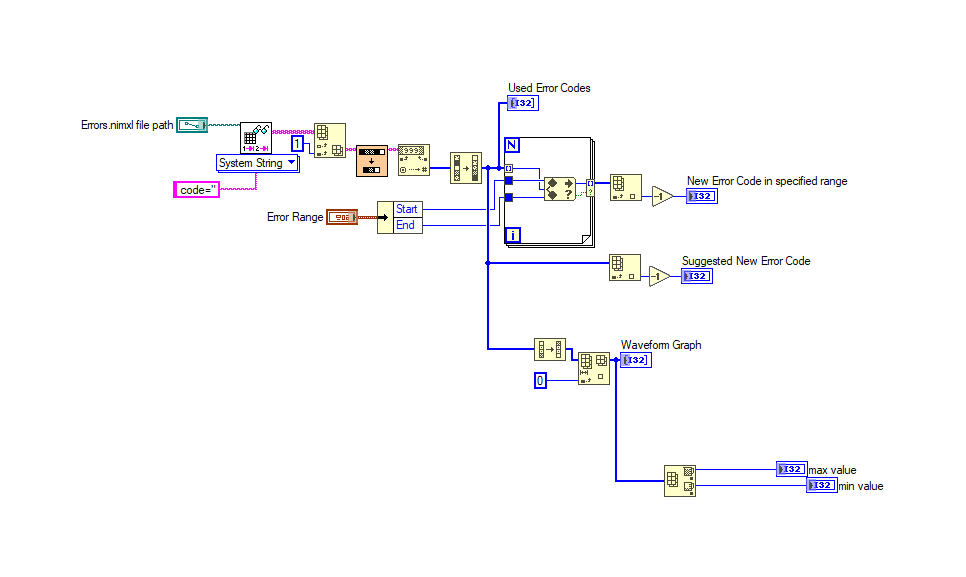
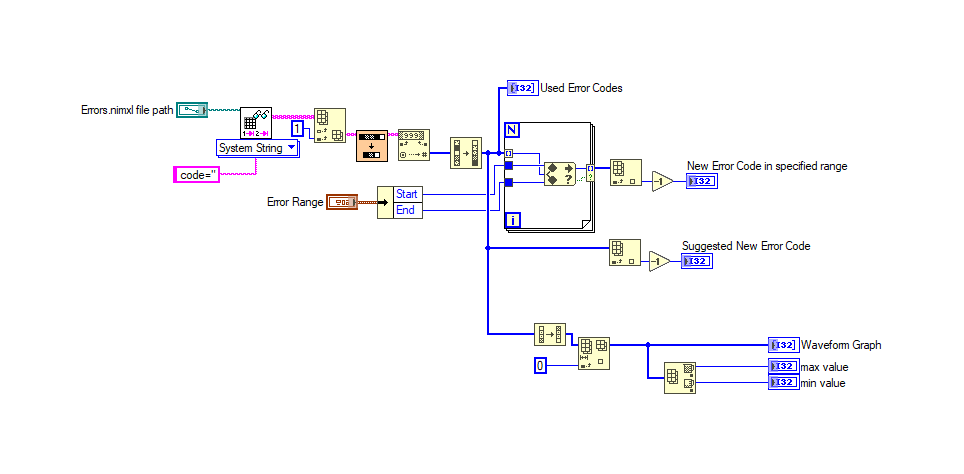
Publish to GitHub Pages

Changed region(s): [[0.0622, 0.1772, 0.9336, 0.8861], [0.4979, 0.1477, 0.6535, 0.2068]]

diff --git a/vidiff/xml_operations-Generate_Error_Code-Generate_Error_Code.vi/index.html b/vidiff/xml_operations-Generate_Error_Code-Generate_Error_Code.vi/index.html
@@ -4,7 +4,7 @@
 <body>
 <div class="report">
 <h1 class="report-title">LabVIEW VI Comparison Report</h1>
-<p class="generation-time">8/20/2026 6:11:04 AM</p>
+<p class="generation-time">8/20/2026 6:48:06 AM</p>
 <div class="compared-VIs">
 <details><summary class="difference-heading"><div class="dropdown-left">First VI: C:\workspace-base\xml operations\Generate Error Code\Generate Error Code.vi</div><div class="dropdown-right">Second VI: C:\workspace\xml operations\Generate Error Code\Generate Error Code.vi</div></summary>
 <table class="difference"><tr class="compared-vi-image-captions"><td class="compared-vi-image-caption">Front Panel Overview</td></tr>
@@ -34,13 +34,13 @@
 <summary class="difference-cosmetic-heading">1. Block Diagram objects</summary>
 <table class="difference"><tr class="compared-vi-image-captions"><td class="compared-vi-image-caption">C:\workspace-base\xml operations\Generate Error Code\Generate Error Code.vi</td><td class="difference-divider"></td><td class="compared-vi-image-caption">C:\workspace\xml operations\Generate Error Code\Generate Error Code.vi</td></tr><tr class="compared-images"><td class="diff-image">
 
-<img class="difference-image" src="index_files/0_0_1445_1445_1.png" alt="index_files/0_0_1445_1445_1.png">
+<img class="difference-image" src="index_files/0_0_1525_1525_1.png" alt="index_files/0_0_1525_1525_1.png">
 </td><td class="difference-divider"></td><td class="diff-image">
 
-<img class="difference-image" src="index_files/0_0_1445_1445_2.png" alt="index_files/0_0_1445_1445_2.png">
+<img class="difference-image" src="index_files/0_0_1525_1525_2.png" alt="index_files/0_0_1525_1525_2.png">
 </td></tr></table>
 <ol class="detailed-description-list" type="A">
-<li class="diff-detail-cosmetic">Name Label  - moved : changed from "<tt>(821,545)</tt>" to "<tt>(853,560)</tt>"</li>
+<li class="diff-detail-cosmetic">Sort 1D Array  - moved : changed from "<tt>(764,617)</tt>" to "<tt>(756,617)</tt>"</li>
 </ol>
 </details>
 <details class="cosmetic" closed>
@@ -48,59 +48,41 @@
 <summary class="difference-cosmetic-heading">2. Block Diagram objects</summary>
 <table class="difference"><tr class="compared-vi-image-captions"><td class="compared-vi-image-caption">C:\workspace-base\xml operations\Generate Error Code\Generate Error Code.vi</td><td class="difference-divider"></td><td class="compared-vi-image-caption">C:\workspace\xml operations\Generate Error Code\Generate Error Code.vi</td></tr><tr class="compared-images"><td class="diff-image">
 
-<img class="difference-image" src="index_files/1_0_411_411_1.png" alt="index_files/1_0_411_411_1.png">
+<img class="difference-image" src="index_files/1_0_374_374_1.png" alt="index_files/1_0_374_374_1.png">
 </td><td class="difference-divider"></td><td class="diff-image">
 
-<img class="difference-image" src="index_files/1_0_411_411_2.png" alt="index_files/1_0_411_411_2.png">
+<img class="difference-image" src="index_files/1_0_374_374_2.png" alt="index_files/1_0_374_374_2.png">
 </td></tr></table>
 <ol class="detailed-description-list" type="A">
-<li class="diff-detail-cosmetic">Array Max & Min  - moved : changed from "<tt>(978,930)</tt>" to "<tt>(978,842)</tt>"</li>
-<li class="diff-detail-cosmetic">Front Panel Terminal "Waveform Graph" - moved : changed from "<tt>(934,817)</tt>" to "<tt>(1082,817)</tt>"</li>
-<li class="diff-detail-cosmetic">Front Panel Terminal "max value" - moved : changed from "<tt>(1090,926)</tt>" to "<tt>(1082,838)</tt>"</li>
-<li class="diff-detail-cosmetic">Front Panel Terminal "min value" - moved : changed from "<tt>(1120,942)</tt>" to "<tt>(1082,854)</tt>"</li>
-<li class="diff-detail-cosmetic">Name Label  - moved : changed from "<tt>(934,802)</tt>" to "<tt>(1114,817)</tt>"</li>
+<li class="diff-detail-cosmetic">Name Label  - moved : changed from "<tt>(995,718)</tt>" to "<tt>(1027,734)</tt>"</li>
 </ol>
 </details>
 <details class="cosmetic" closed>
 
-<summary class="difference-cosmetic-heading">3. Front Panel - Panel</summary>
+<summary class="difference-cosmetic-heading">3. Block Diagram objects</summary>
 <table class="difference"><tr class="compared-vi-image-captions"><td class="compared-vi-image-caption">C:\workspace-base\xml operations\Generate Error Code\Generate Error Code.vi</td><td class="difference-divider"></td><td class="compared-vi-image-caption">C:\workspace\xml operations\Generate Error Code\Generate Error Code.vi</td></tr><tr class="compared-images"><td class="diff-image">
 
-<img class="difference-image" src="index_files/2_0_1.png" alt="index_files/2_0_1.png">
+<img class="difference-image" src="index_files/2_0_2152_2152_1.png" alt="index_files/2_0_2152_2152_1.png">
 </td><td class="difference-divider"></td><td class="diff-image">
 
-<img class="difference-image" src="index_files/2_0_2.png" alt="index_files/2_0_2.png">
+<img class="difference-image" src="index_files/2_0_2152_2152_2.png" alt="index_files/2_0_2152_2152_2.png">
 </td></tr></table>
 <ol class="detailed-description-list" type="A">
-<li class="diff-detail-cosmetic">Panel - panel size</li>
+<li class="diff-detail-cosmetic">Name Label  - moved : changed from "<tt>(1000,638)</tt>" to "<tt>(1032,654)</tt>"</li>
 </ol>
 </details>
 <details class="cosmetic" closed>
 
-<summary class="difference-cosmetic-heading">4. Front Panel - Waveform Graph</summary>
+<summary class="difference-cosmetic-heading">4. Block Diagram objects</summary>
 <table class="difference"><tr class="compared-vi-image-captions"><td class="compared-vi-image-caption">C:\workspace-base\xml operations\Generate Error Code\Generate Error Code.vi</td><td class="difference-divider"></td><td class="compared-vi-image-caption">C:\workspace\xml operations\Generate Error Code\Generate Error Code.vi</td></tr><tr class="compared-images"><td class="diff-image">
 
-<img class="difference-image" src="index_files/3_0_445_445_1.png" alt="index_files/3_0_445_445_1.png">
+<img class="difference-image" src="index_files/3_0_653_653_1.png" alt="index_files/3_0_653_653_1.png">
 </td><td class="difference-divider"></td><td class="diff-image">
 
-<img class="difference-image" src="index_files/3_0_445_445_2.png" alt="index_files/3_0_445_445_2.png">
+<img class="difference-image" src="index_files/3_0_653_653_2.png" alt="index_files/3_0_653_653_2.png">
 </td></tr></table>
 <ol class="detailed-description-list" type="A">
-<li class="diff-detail-cosmetic">Waveform Graph "Waveform Graph" - moved/resized : changed from "<tt>(12,274) 1384*482</tt>" to "<tt>(24,310) 624*170</tt>"</li>
-<li class="diff-detail-cosmetic">Graph Palette - show/hide</li>
-<li class="diff-detail-cosmetic">Graph Palette  - moved : changed from "<tt>(12,757)</tt>" to "<tt>(24,481)</tt>"</li>
-<li class="diff-detail-cosmetic">Graph Cursor Tool - show/hide</li>
-<li class="diff-detail-cosmetic">Y Scale - marker values</li>
-<li class="diff-detail-cosmetic">Scale Name  - moved : changed from "<tt>(38,475)</tt>" to "<tt>(50,355)</tt>"</li>
-<li class="diff-detail-cosmetic">Graph Zoom Tool - show/hide</li>
-<li class="diff-detail-cosmetic">Graph Move Tool - show/hide</li>
-<li class="diff-detail-cosmetic">X Scale - marker values</li>
-<li class="diff-detail-cosmetic">Scale Name  - moved : changed from "<tt>(724,737)</tt>" to "<tt>(356,461)</tt>"</li>
-<li class="diff-detail-cosmetic">X Scrollbar  - moved : changed from "<tt>(1267,757)</tt>" to "<tt>(519,481)</tt>"</li>
-<li class="diff-detail-cosmetic">Graph Plot Legend  - moved : changed from "<tt>(1299,249)</tt>" to "<tt>(551,285)</tt>"</li>
-<li class="diff-detail-cosmetic">Graph Scale-legend  - moved : changed from "<tt>(1396,319)</tt>" to "<tt>(648,355)</tt>"</li>
-<li class="diff-detail-cosmetic">  - moved : changed from "<tt>(1396,648)</tt>" to "<tt>(648,372)</tt>"</li>
-<li class="diff-detail-cosmetic">Cursor Buttons  - moved : changed from "<tt>(1628,648)</tt>" to "<tt>(880,372)</tt>"</li>
+<li class="diff-detail-cosmetic">Name Label  - moved : changed from "<tt>(1114,817)</tt>" to "<tt>(1114,818)</tt>"</li>
 </ol>
 </details>
 </div>
